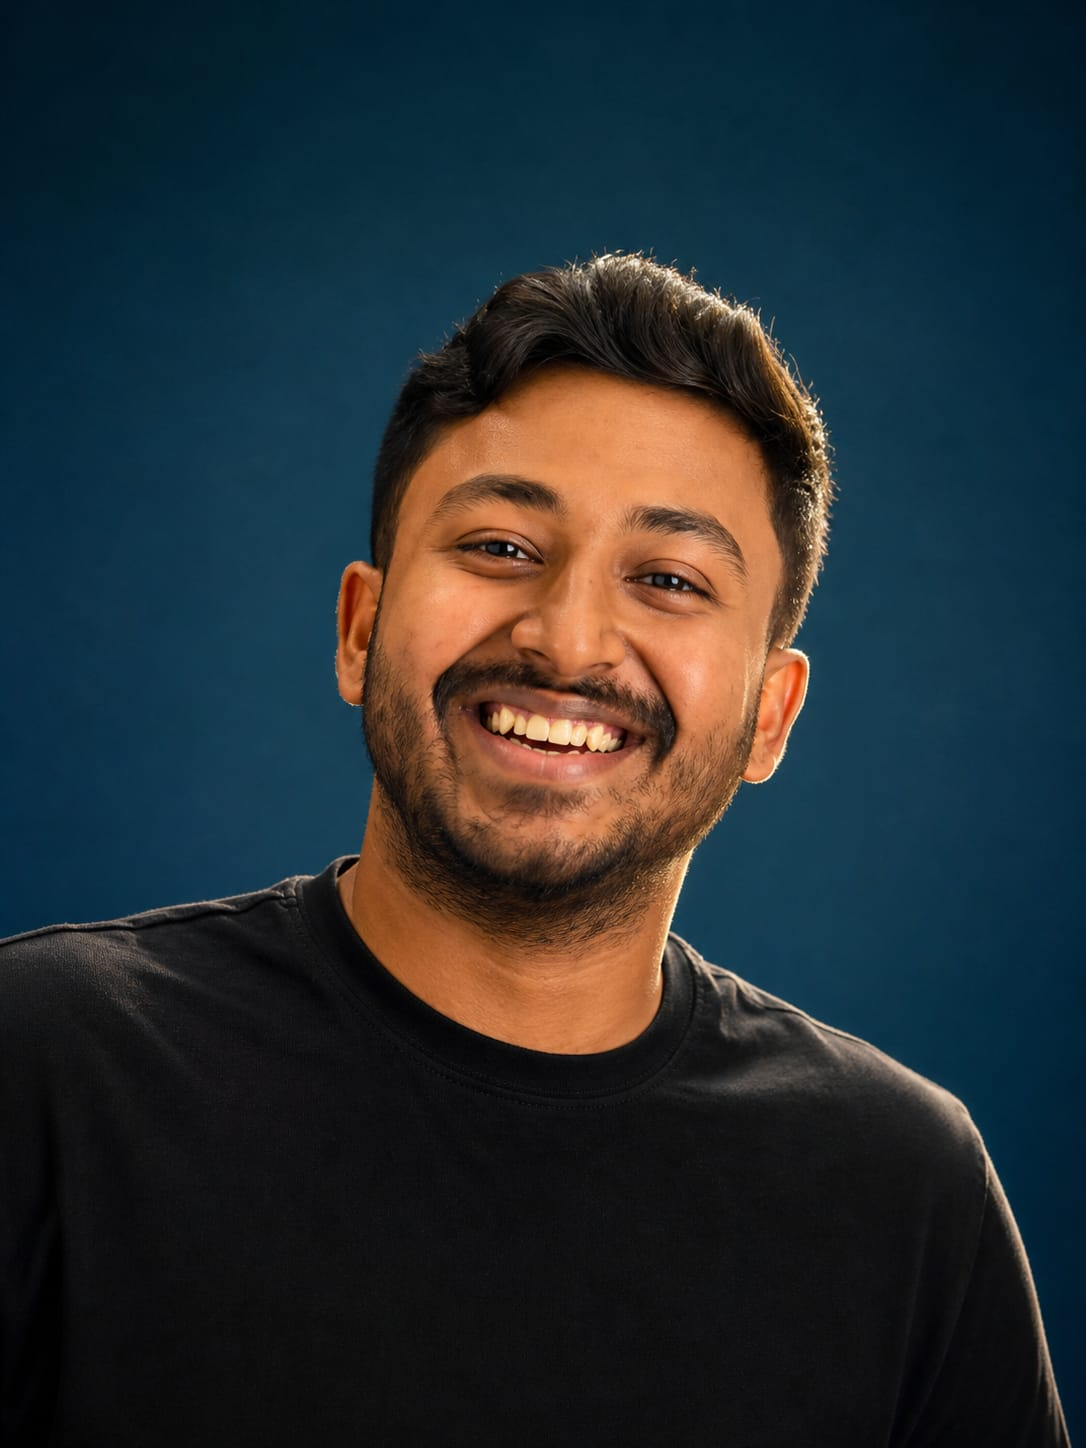
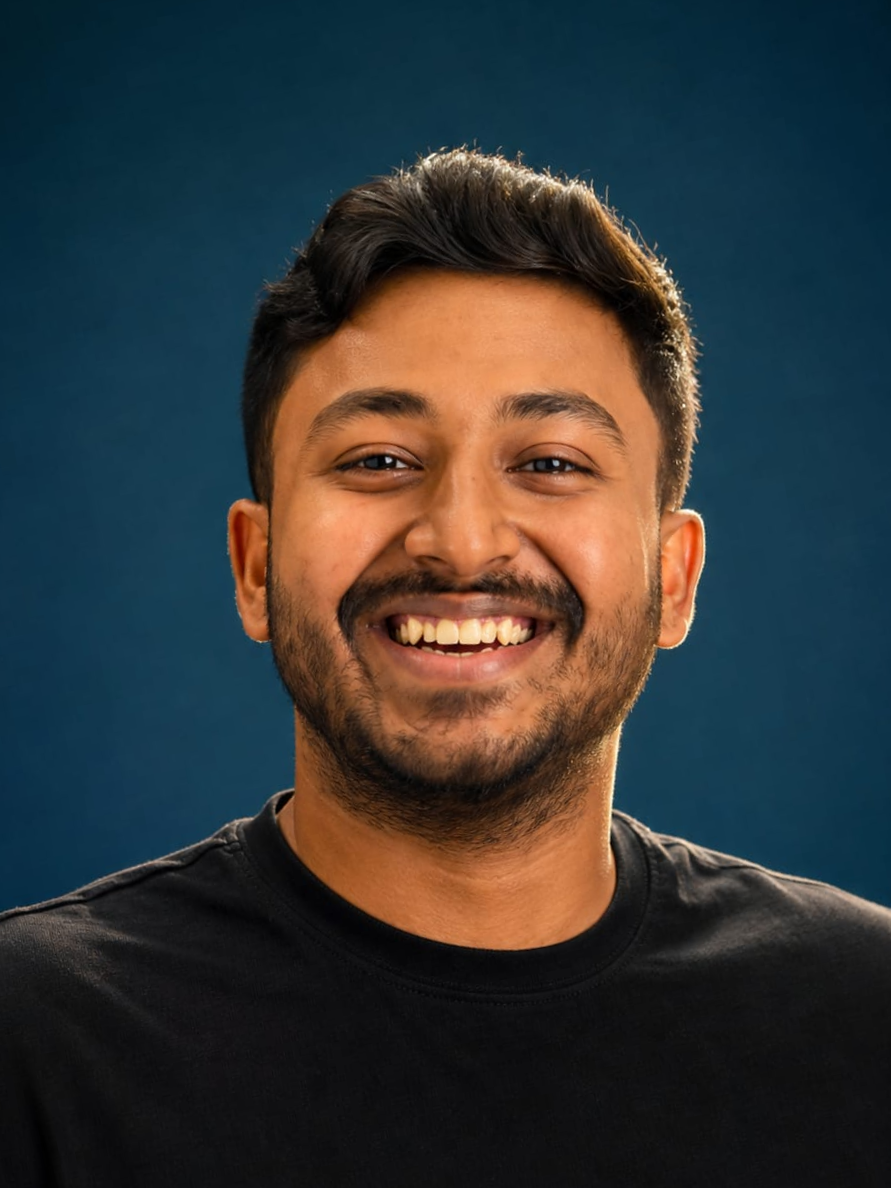
updated my portfolio - little modification

Changed region(s): [[0.0, 0.1246, 1.0, 1.0]]

diff --git a/src/components/sections/Hero.tsx b/src/components/sections/Hero.tsx
@@ -127,11 +127,11 @@ const socials = [
   { href: "mailto:hritik16.work@gmail.com",                 icon: Mail,     label: "Email" },
 ];
 
-const techPills = ["Python", "AWS", "Snowflake", "GCP", "Airflow", "SQL", "PySpark", "Power BI"];
+const techPills = ["Python", "AWS", "Clickhouse", "GCP", "Airflow", "SQL", "PySpark", "Power BI"];
 
 const ticker = [
   "Python", "·", "SQL", "·", "AWS Glue", "·", "Redshift", "·",
-  "Snowflake", "·", "Power BI", "·", "PySpark", "·", "ETL / ELT", "·",
+  "Clickhouse", "·", "Power BI", "·", "PySpark", "·", "ETL / ELT", "·",
   "GCP", "·", "Apache Airflow", "·", "Data Warehousing", "·", "FastAPI", "·",
   "PostgreSQL", "·", "Pandas", "·", "Docker", "·",
 ];
@@ -241,7 +241,7 @@ export default function Hero() {
                 transition={{ delay: 0.42, duration: 0.4 }}
                 className="flex items-center gap-2 text-sm mb-4"
               >
-                <span className="font-mono text-neutral-500 dark:text-neutral-700">{"// currently working as"}</span>
+                <span className="font-mono text-neutral-500 dark:text-neutral-700">{"Currently working as"}</span>
                 <TypewriterRole />
               </motion.div>
 
@@ -254,7 +254,7 @@ export default function Hero() {
               >
                 2+ years shipping data pipelines &amp; cloud infrastructure at{" "}
                 <span className="text-neutral-700 dark:text-neutral-300 font-medium">Workmates Core2cloud</span>.
-                {" "}Building on AWS Glue, Redshift, GCP &amp; Snowflake — from raw ingestion to production dashboards.
+                {" "}Building on AWS Glue, Redshift, GCP &amp; Clickhouse — from raw ingestion to production dashboards.
               </motion.p>
 
               {/* Stats row */}
@@ -268,7 +268,7 @@ export default function Hero() {
                   { num: "2+",  label: "Years" },
                   { num: "15+", label: "Pipelines" },
                   { num: "3",   label: "Clouds" },
-                  { num: "5+",  label: "Certs" },
+                  { num: "6+",  label: "Certs" },
                 ].map(({ num, label }) => (
                   <div key={label} className="text-center">
                     <div className="font-display font-black text-xl text-neutral-900 dark:text-white leading-none">{num}</div>
